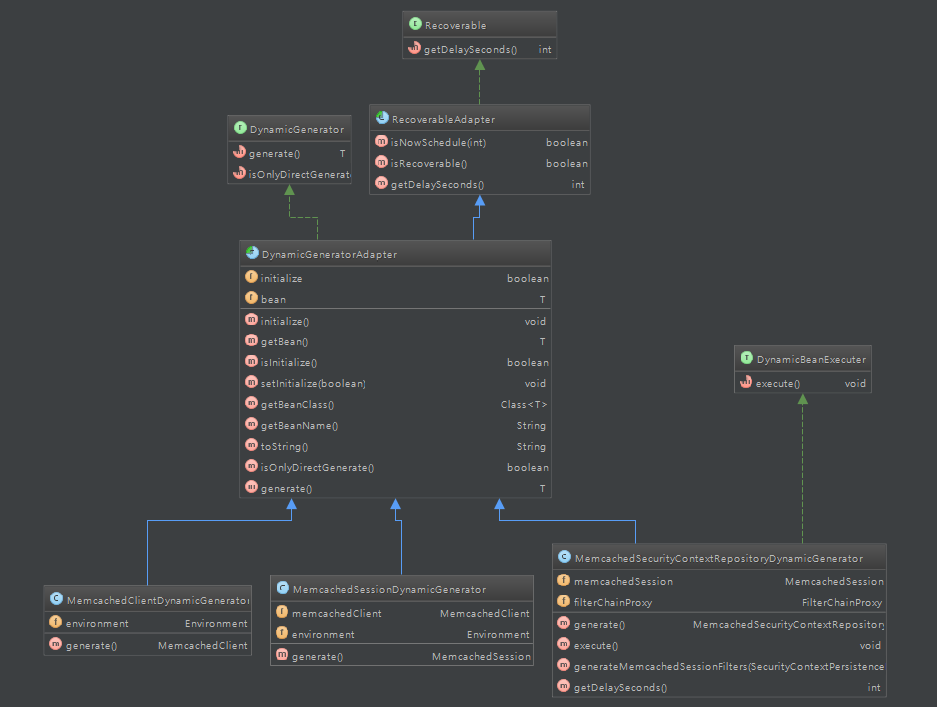
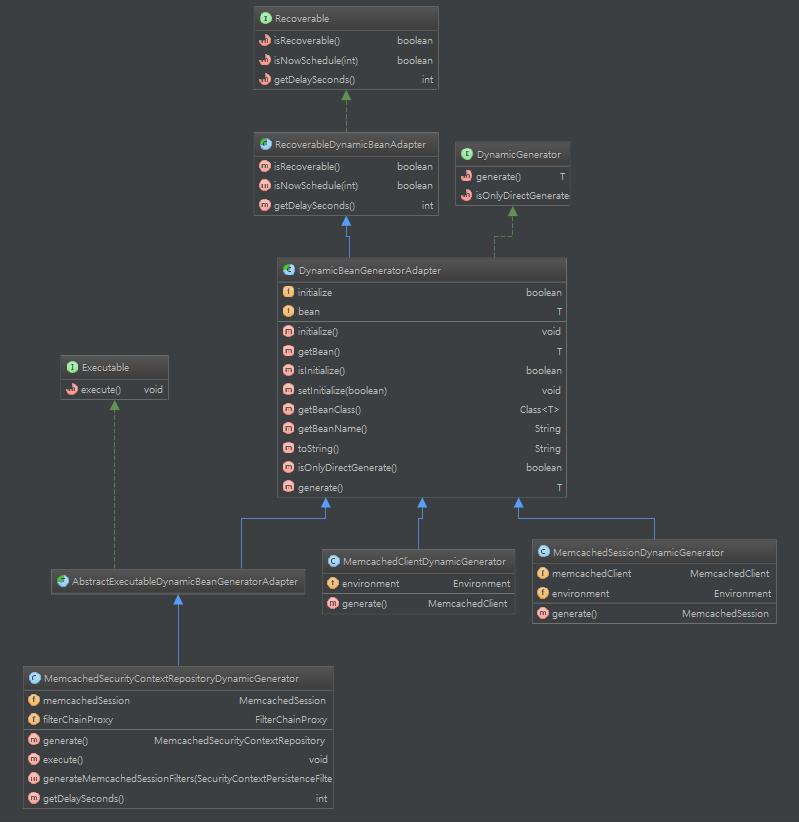
membase170113

diff --git a/standby/2016-12-23-COUCHBASE.md b/standby/2016-12-23-COUCHBASE.md
@@ -539,17 +539,39 @@ if(!trustResolver.isAnonymous(context.getAuthentication())) {
 
 ### 문제
 
--	상황 1. 어플리케이션 실행 중 일부 Membase 서버가 죽었을 때
+-	**상황 1. 어플리케이션 실행 중 일부 Membase 서버가 죽었을 때**
 
-	**서버에서는** `Auto FailOver`가 작동되어 장애 조치 노드에서 처리하는 복제 된 데이터가 클러스터의 다른 노드에서 활성화되게 됩니다. (서버 2대 추가 발급 후 정확한 동작 확인 예정)
+	<br>**서버에서는** `Auto FailOver`가 작동되어 장애 조치 노드에서 처리하는 복제 된 데이터가 클러스터의 다른 노드에서 활성화되게 됩니다.
 
-	어플리케이션에서는 이미 Bean으로 등록된 SpyMemchaced가 모든 노드의 정보를 가지고 있기 때문에, 장애 서버 외 다른 서버로부터 vBucket 정보를 수신받아 정상적으로 동작될 수 있으며, SpyMemchaced Auto Reconect 전략에 따라, 지속적으로 해당 노드의 connect를 확인합니다. 장애 복구 조치에 따라 일부 요청에 실패할 가능성이 있습니다.
+	<br>Auto FailOver 전
 
--	상황 2. 어플리케이션 실행 중 모든 Membase 서버가 죽었을 때
+	![Failver Before](/images/2016/2016_12_23_COUCHBASE/a_failover_before.png)
 
--	상황 3. 일부 Membase 서버가 죽었을 때 어플리케이션 로드
+	<br>Auto FailOver 후
 
--	상황 4. 모든 Membase 서버가 죽었을 때 어플리케이션 로드
+	![Failver After](/images/2016/2016_12_23_COUCHBASE/a_failover_after.png)
+
+	<br>88번 서버에 장애가 발생하였고 자동 장애 조치가 발생하여 88번 서버가 자동으로 `failover` 되었으며, 88번 서버에 존재하던 3개의 아이템에 대한 복제본을 가지고 있던 128번 서버에서 데이터가 활성상태로 변경된 것을 확인할 수 있습니다.
+
+	<br> 각 서버로 흩어져 있는 복제본 데이터가 비장애 서버에서 활성화되며, 이 때 데이터가 각 서버에 골고루 활성화되는 것은 아닙니다. 데이터를 재분배하려면 Rebalance 작업을 해야되며, 이 작업은 수동으로 진행되어야 합니다.<br><br>
+
+	![Failver Status](/images/2016/2016_12_23_COUCHBASE/a_failover_status.png)
+
+	연쇄 장애를 막기 위해 `Auto failover`는 한번만 발생하며, `Quota`를 Reset해주어야만 다시 자동 장애 조치를 하게 됩니다.
+
+	`Auto Failover`는 최소 30초마다 서버를 확인하게 되므로 최대 30초 간 해당 서버의 데이터를 가져오려는 요청에 대해서 TimeOut을 발생시키게 되며, `Auto Failover` 과정에서는 기존 장애 서버에 대한 요청에 대하여 `Cancel`을 반환하는 작업을 하게 되며, 복제본 데이터를 활성화하는 서버에서는 리소스를 다소 사용할 수 있습니다.
+
+	<br>**어플리케이션에서는** 이미 `Bean`으로 등록된 `SpyMemchaced`가 모든 노드의 정보를 가지고 있기 때문에, 장애 서버 외 다른 서버로부터 vBucket 정보를 수신받아 정상적으로 동작됩니다.
+
+	`Auto FailOver`되기 전에는 vBucket에서 장애 서버가 제외되지 않았기 때문에 SpyMemchaced Auto Reconnect 전략에 따라, 지속적으로 해당 노드의 connect를 확인하며, 이 과정에서 `TimeOutException`이 발생할 수 있습니다.
+
+	`Auto FailOver` 후에는 vBucket 정보를 새로 수신받아 장애 서버에 대한 connect를 확인하지 않습니다.
+
+-	**상황 2. 어플리케이션 실행 중 모든 Membase 서버가 죽었을 때**
+
+-	**상황 3. 일부 Membase 서버가 죽었을 때 어플리케이션 로드**
+
+-	**상황 4. 모든 Membase 서버가 죽었을 때 어플리케이션 로드**
 
 	![Application Exception](/images/2016/2016_12_23_COUCHBASE/exception.png)
 
@@ -581,7 +603,7 @@ Adapter Pattern을 적용하여 `DynamicGeneratorAdapter`를 만들었고, Adapt
 
 **후 처리 정의**
 
-빈 생성 후에 수행해야 할 작업이 있다면 `DynamicBeanExecuter`를 상속하여 `execute` Method를 정의할 수 있도록 하였습니다.
+빈 생성 후에 수행해야 할 작업는 `Generator`는 `AbstractExecutableDynamicBeanGeneratorAdapter`를 상속하여 `execute` Method를 정의할 수 있도록 하였습니다.
 
 **의존성 주입**
 
@@ -619,7 +641,7 @@ Adapter Pattern을 적용하여 `DynamicGeneratorAdapter`를 만들었고, Adapt
 
 **후 처리**
 
-`DynamicBeanFactory`는 빈이 성공적으로 생성되어 `BeanFactory`에 등록되면, 해당 `Generator`가 `DynamicBeanExecuter`를 `Interface`로 가지고 있을 시 `execute` 메서드를 실행하게 됩니다.
+`DynamicBeanFactory`는 빈이 성공적으로 생성되어 `BeanFactory`에 등록되면, 해당 `Generator`가 `AbstractExecutableDynamicBeanGeneratorAdapter`를 상속하고 있을 때 있을 시 `execute` 메서드를 실행하게 됩니다.
 
 **복구 스케줄링**
 
@@ -651,7 +673,7 @@ public class DynamicBeanRecover {
 
 ```java
 @Component
-public class MemcachedSecurityContextRepositoryDynamicGenerator extends DynamicGeneratorAdapter<MemcachedSecurityContextRepository> implements DynamicBeanExecuter {
+public class MemcachedSecurityContextRepositoryDynamicGenerator extends AbstractExecutableDynamicBeanGeneratorAdapter<MemcachedSecurityContextRepository> {
 
 		@Autowired
 		private FilterChainProxy filterChainProxy;
